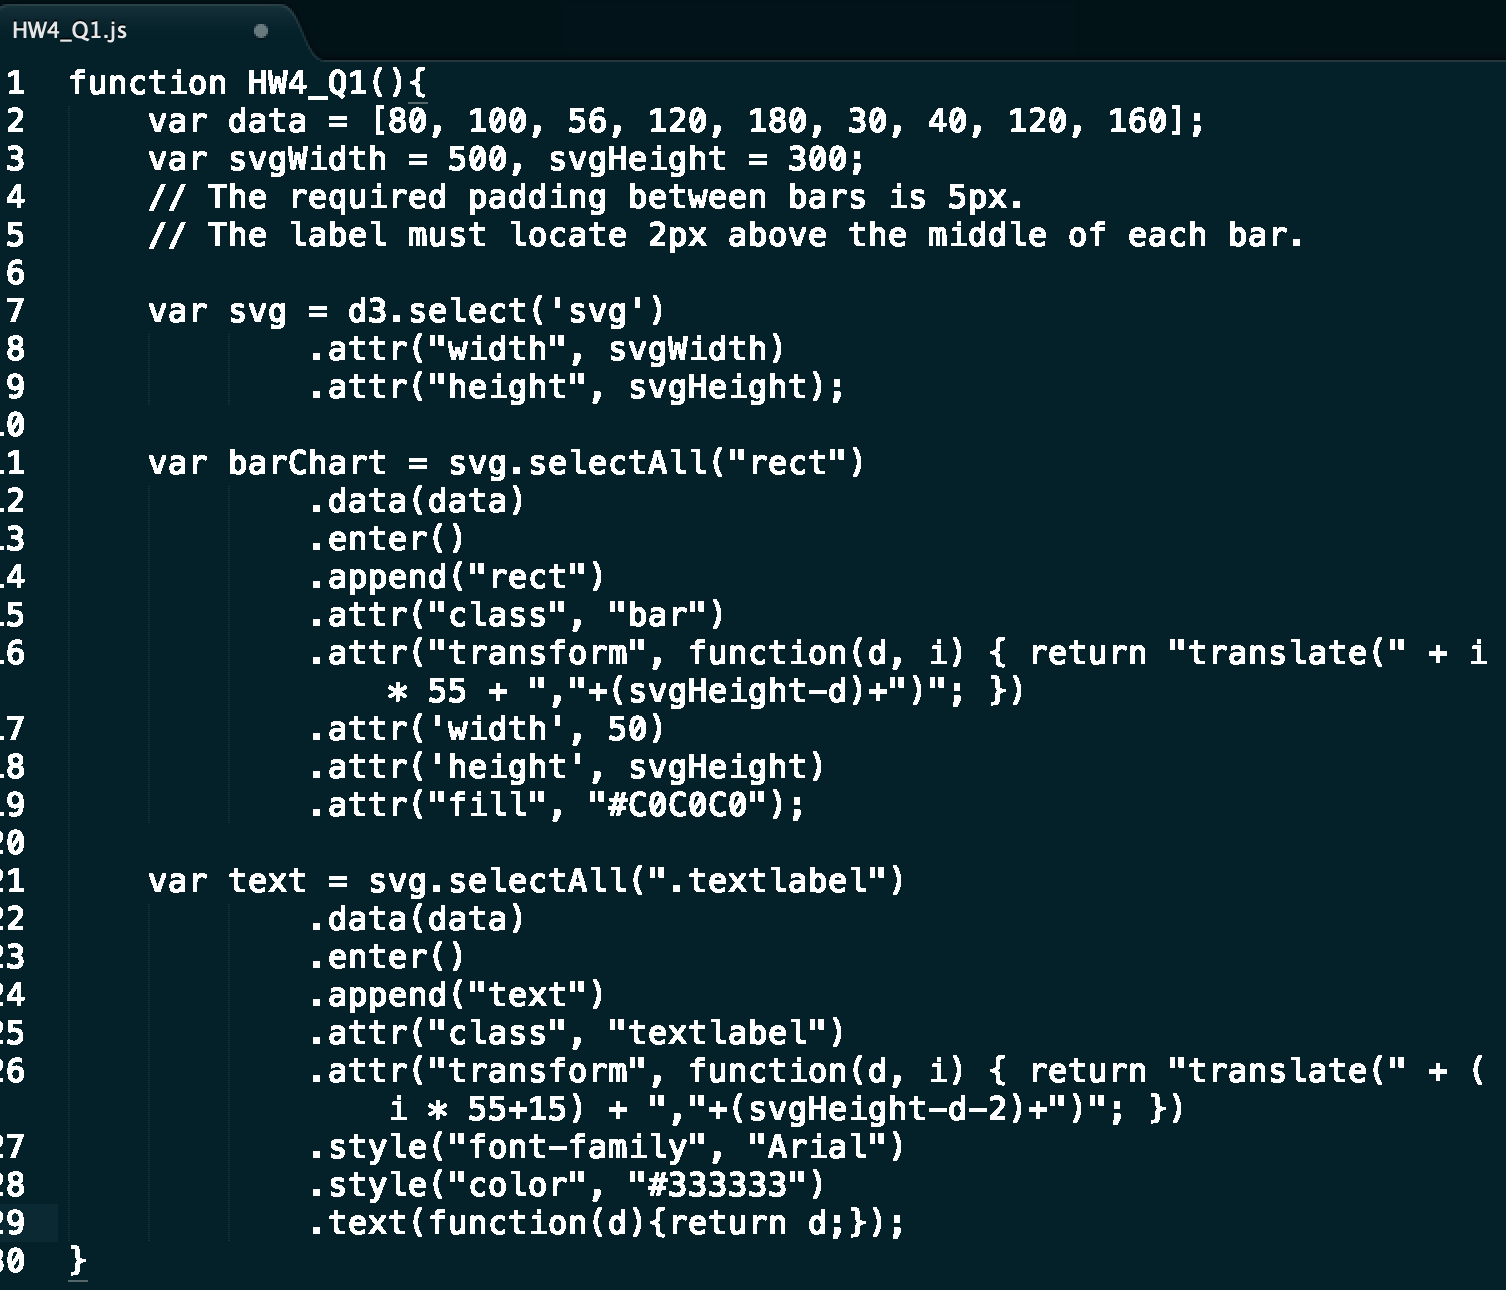
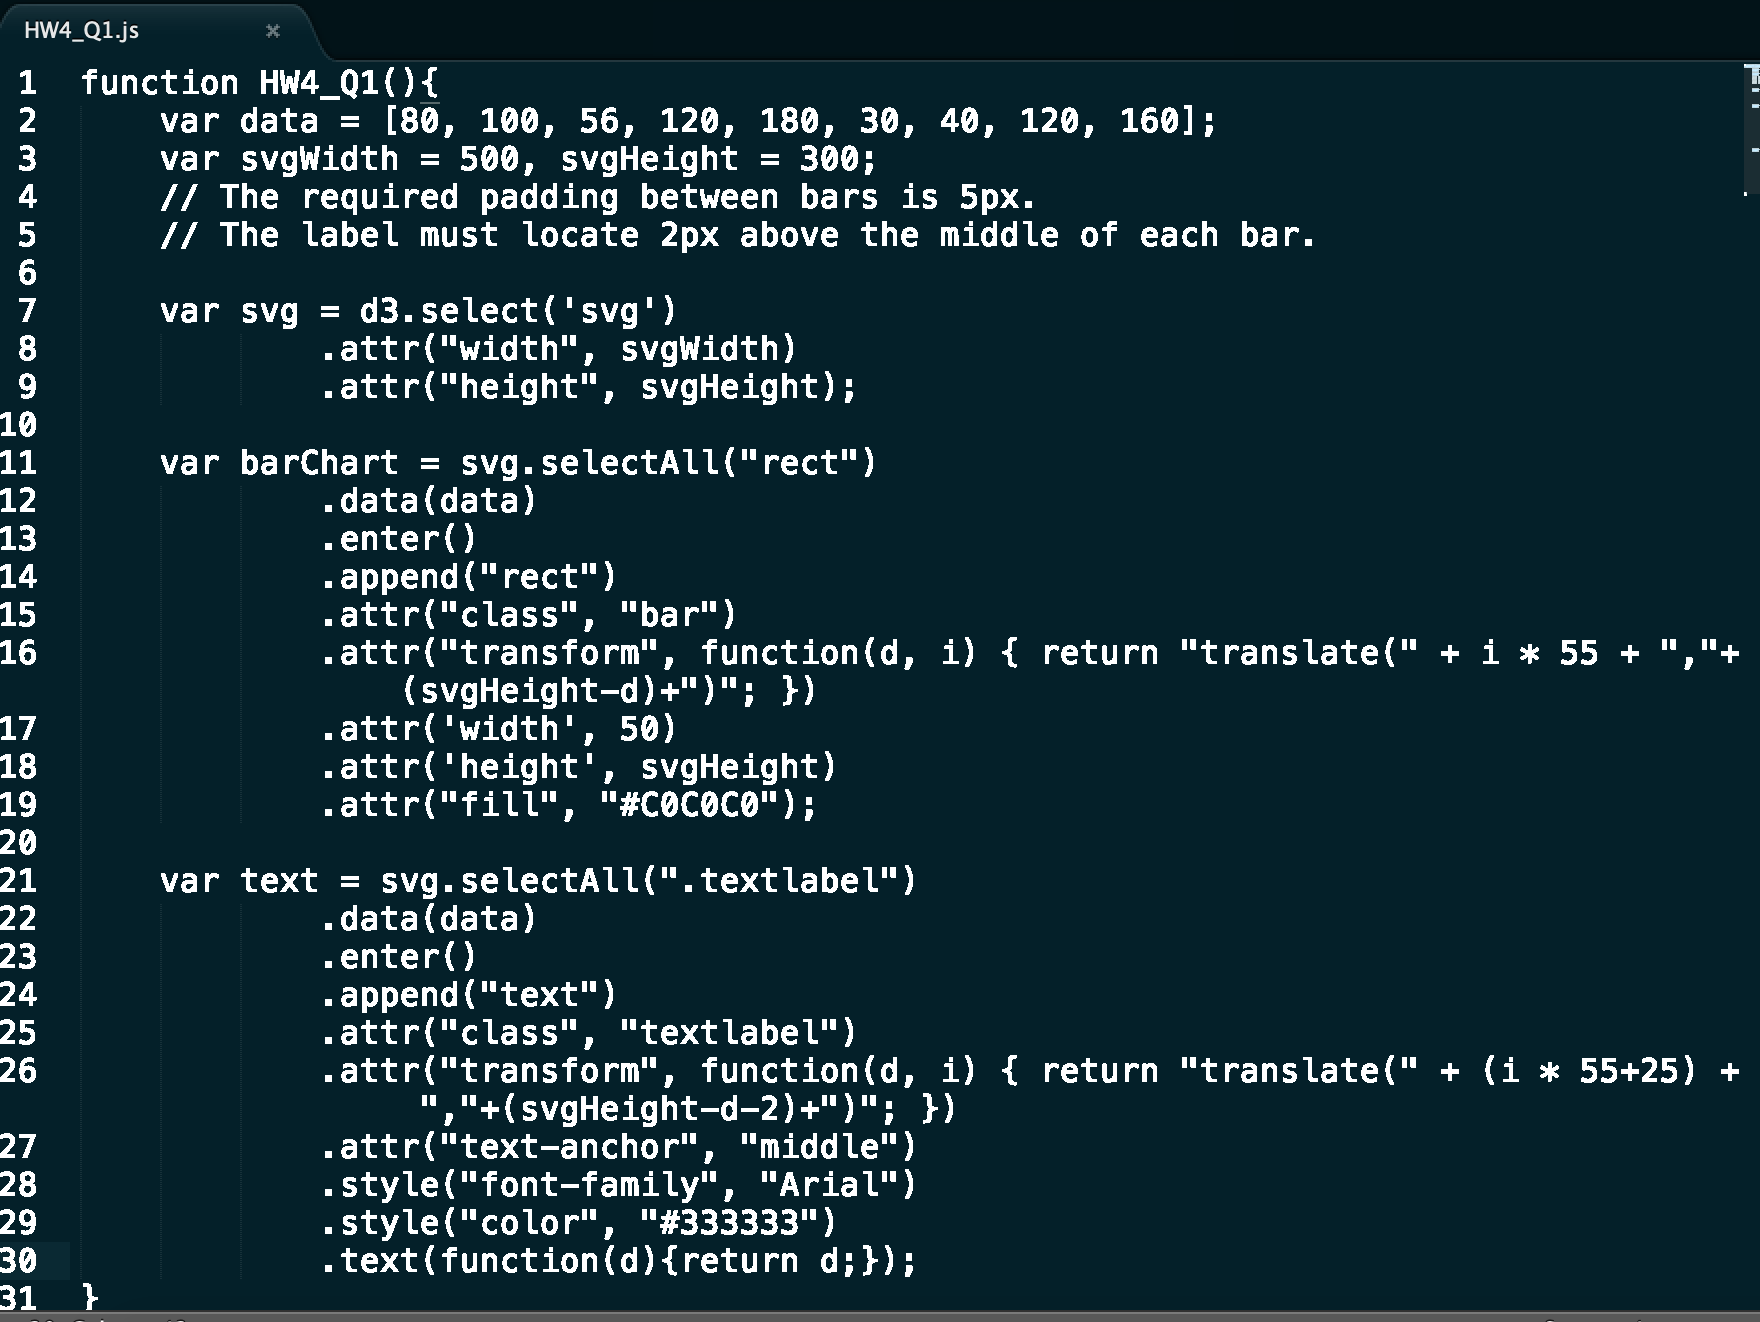
up

diff --git a/HW4/hw4_tutorial/static/js/dashboard.js b/HW4/hw4_tutorial/static/js/dashboard.js
@@ -52,8 +52,8 @@ function dashboard(id, fData) {
 
         //create the rectangles.
         bars.append("rect")
-            .attr("x", function (d,i) {return i*x.rangeBand()*1.1+10;}/* TO FINISH */)
-            .attr("y", hGDim.b/* TO FINISH */)
+            .attr("x", function (d){return x(d[0])}/* TO FINISH */)
+            .attr("y", function (d){return y(d[1])}/* TO FINISH */)
             .attr("width", x.rangeBand())
             .attr("height", function (d) {
                 return hGDim.h - y(d[1]);
@@ -69,7 +69,7 @@ function dashboard(id, fData) {
             .attr("x", function (d) {
                 return x(d[0])/* TO FINISH */ + x.rangeBand() / 2;
             })
-            .attr("y", hGDim.b+5/* TO FINISH */)
+            .attr("y", y(d[1])-5/* TO FINISH */)
             .attr("text-anchor", "middle");
 
         function mouseover(d) {  // utility function to be called on mouseover.

diff --git a/HW4/HW4_Q1.js b/HW4/HW4_Q1.js
@@ -23,9 +23,9 @@ function HW4_Q1(){
             .enter()
             .append("text")
             .attr("class", "textlabel")
-            .attr("transform", function(d, i) { return "translate(" + (i * 55+15) + ","+(svgHeight-d-2)+")"; })
+            .attr("transform", function(d, i) { return "translate(" + (i * 55+25) + ","+(svgHeight-d-2)+")"; })
+            .attr("text-anchor", "middle")
             .style("font-family", "Arial")
             .style("color", "#333333")
             .text(function(d){return d;});
-
 }

diff --git a/HW4/hw4_tutorial/hw4_tutorial/view.py b/HW4/hw4_tutorial/hw4_tutorial/view.py
@@ -31,7 +31,7 @@ def dashboard(request):
                   ]
         }
     '''
-    SQL = "select * from datasetHW3.wordcount2 limit 8"
+    SQL = "select * from datasetHW3.wc2 limit 8"
     df = pandas_gbq.read_gbq(SQL)
     #print(df)
     data = {}

diff --git a/HW4/EECS 6893 HW4.md b/HW4/EECS 6893 HW4.md
@@ -34,7 +34,7 @@ A translation moves all the points of an element in the same direction and by th
 
 **1.4**
 
-The anonymous function a.map(function(d,i){return i+5}) here equals to the following command in Python: [i+5 for i in range(len(a))]. So the return value of the anonymous function is: [5, 6, 7, 8, 9]. 需要描述anonymous function或者map吗？对于定义还是有点迷茫。
+The function without a name is called an "anonymous function". In d3, we use them primarily to gain access to bound data. The anonymous function a.map(function(d,i){return i+5}) here equals to the following command in Python: [i+5 for i, d in enumerate(a)]. So the return value of the anonymous function is: [5, 6, 7, 8, 9].
 
 
 
@@ -72,7 +72,7 @@ The screenshots of codes and the output bar-chart are as following:
 
 Modify the view.py:
 
-![view2](/Users/mac/Desktop/BigData/HW4/view2.png)
+![view2](/Users/mac/Desktop/BigData/HW4/Q3-1.png)
 
 
 
@@ -80,7 +80,7 @@ Modify the dashboard.js
 
 ![Screen Shot 2019-11-17 at 4.33.38 AM](/Users/mac/Desktop/BigData/HW4/Screen Shot 2019-11-17 at 4.33.38 AM.png)
 
-![Screen Shot 2019-11-17 at 4.33.58 AM](/Users/mac/Desktop/BigData/HW4/Screen Shot 2019-11-17 at 4.33.58 AM.png)
+![Screen Shot 2019-11-17 at 4.33.58 AM](/Users/mac/Desktop/BigData/HW4/Screen Shot 2019-11-17 at 11.26.16 AM.png)
 
 ![Screen Shot 2019-11-17 at 4.34.17 AM](/Users/mac/Desktop/BigData/HW4/Screen Shot 2019-11-17 at 4.34.17 AM.png)
 
@@ -88,7 +88,9 @@ Modify the dashboard.js
 
 Result:
 
-![Screen Shot 2019-11-17 at 4.34.41 AM](/Users/mac/Desktop/BigData/HW4/Screen Shot 2019-11-17 at 4.30.21 AM.png)
+![Q2-result1](/Users/mac/Desktop/BigData/HW4/Q2-result1.png)
+
+![Q2-result2](/Users/mac/Desktop/BigData/HW4/Q2-result2.png)
 
 
 
@@ -99,8 +101,6 @@ Based on the edge.csv and node.csv provided by TA, the view.py is modified as fo
 ![view3](/Users/mac/Desktop/BigData/HW4/view3.png)
 
 Modified connection.js:
-
-![Q3-1](/Users/mac/Desktop/BigData/HW4/Q3-1.png)
 
 ![Q3-2](/Users/mac/Desktop/BigData/HW4/Q3-2.png)
 
